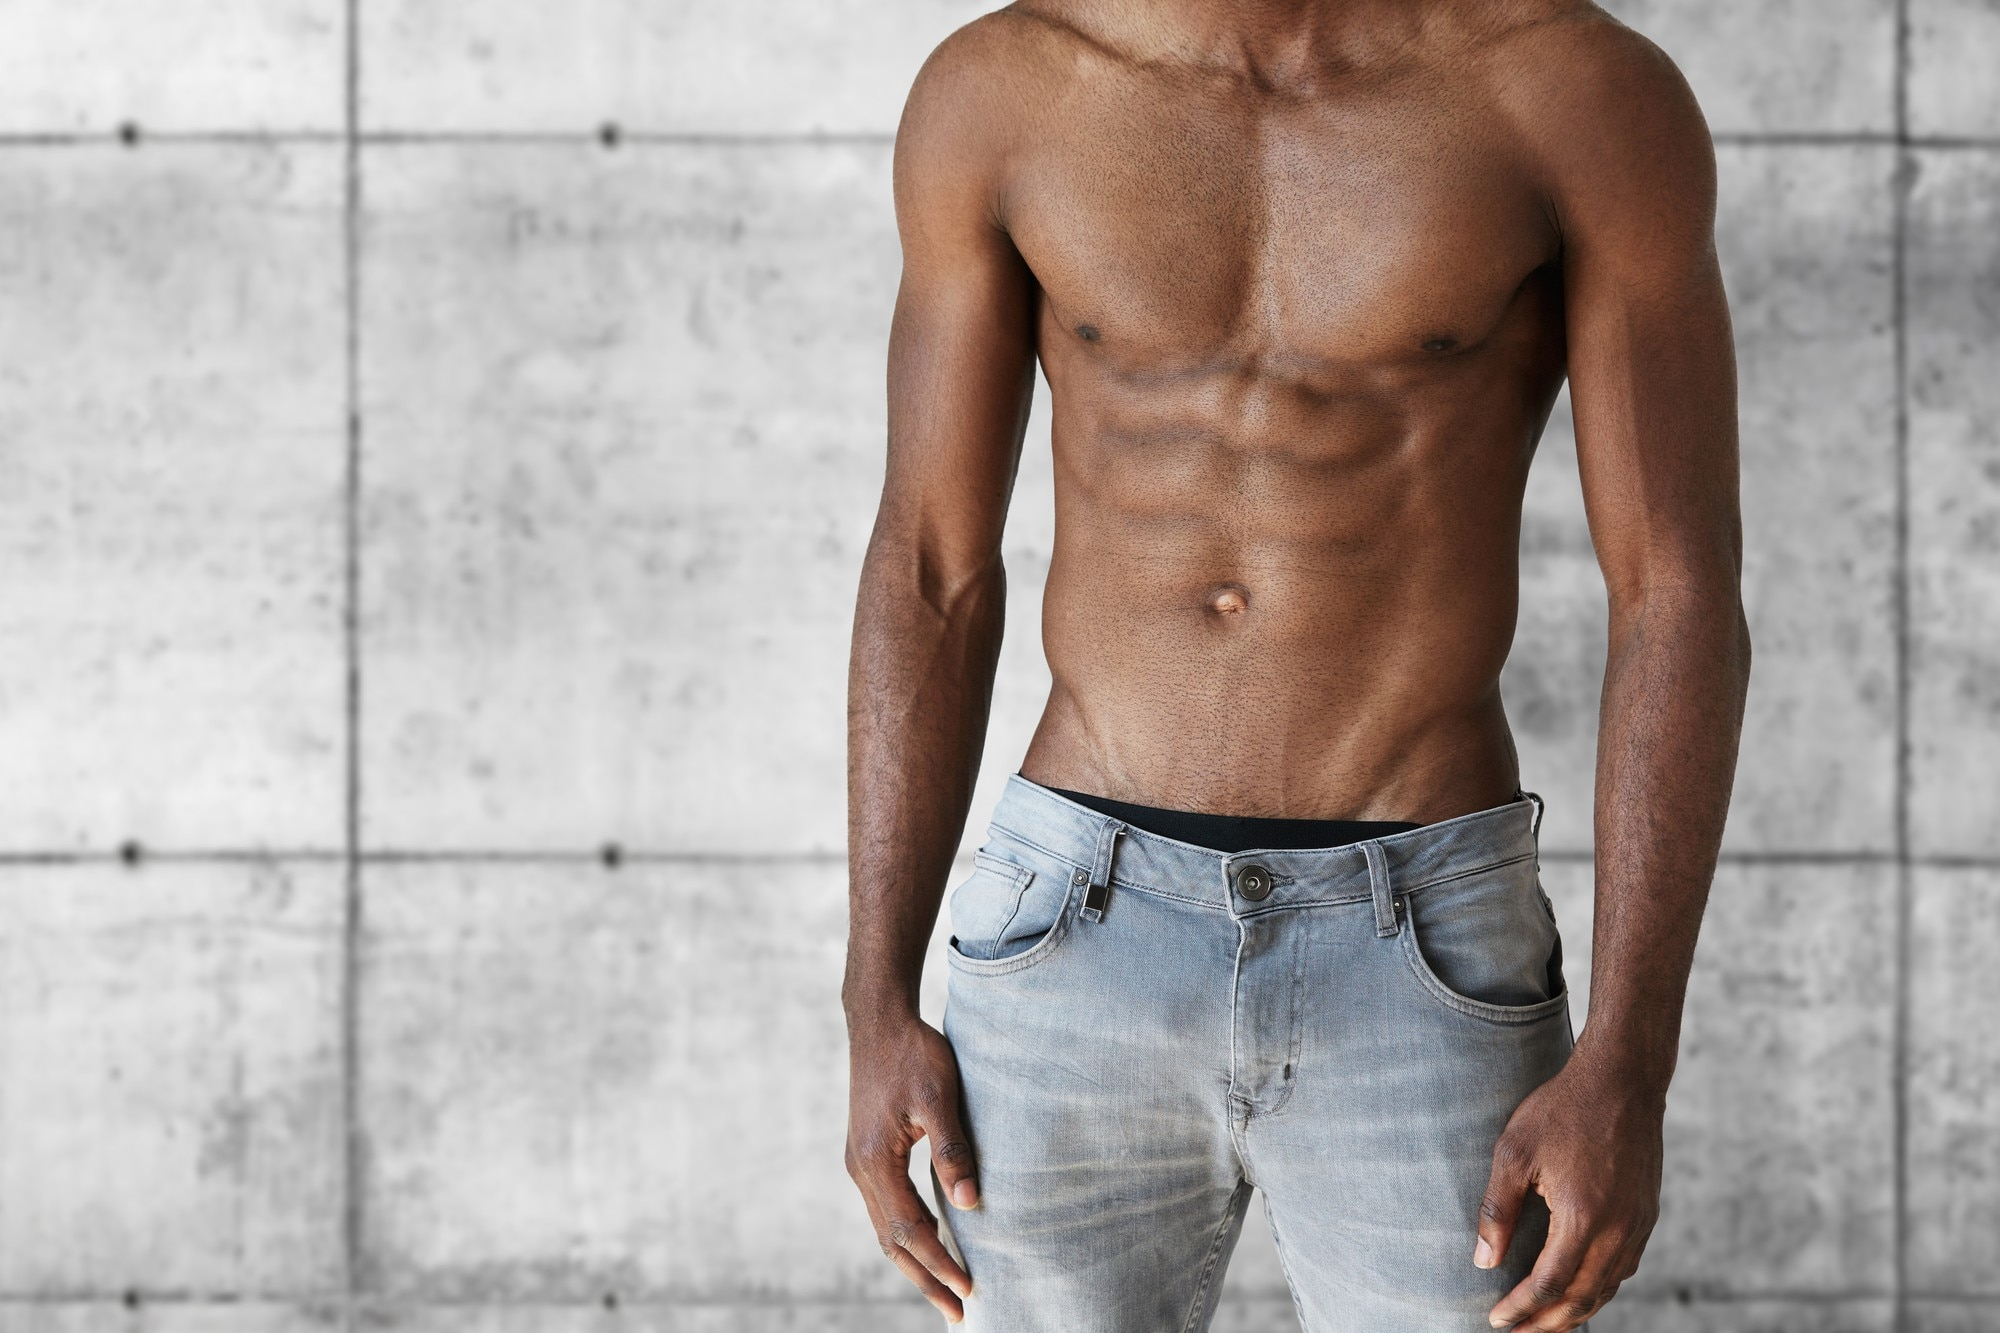
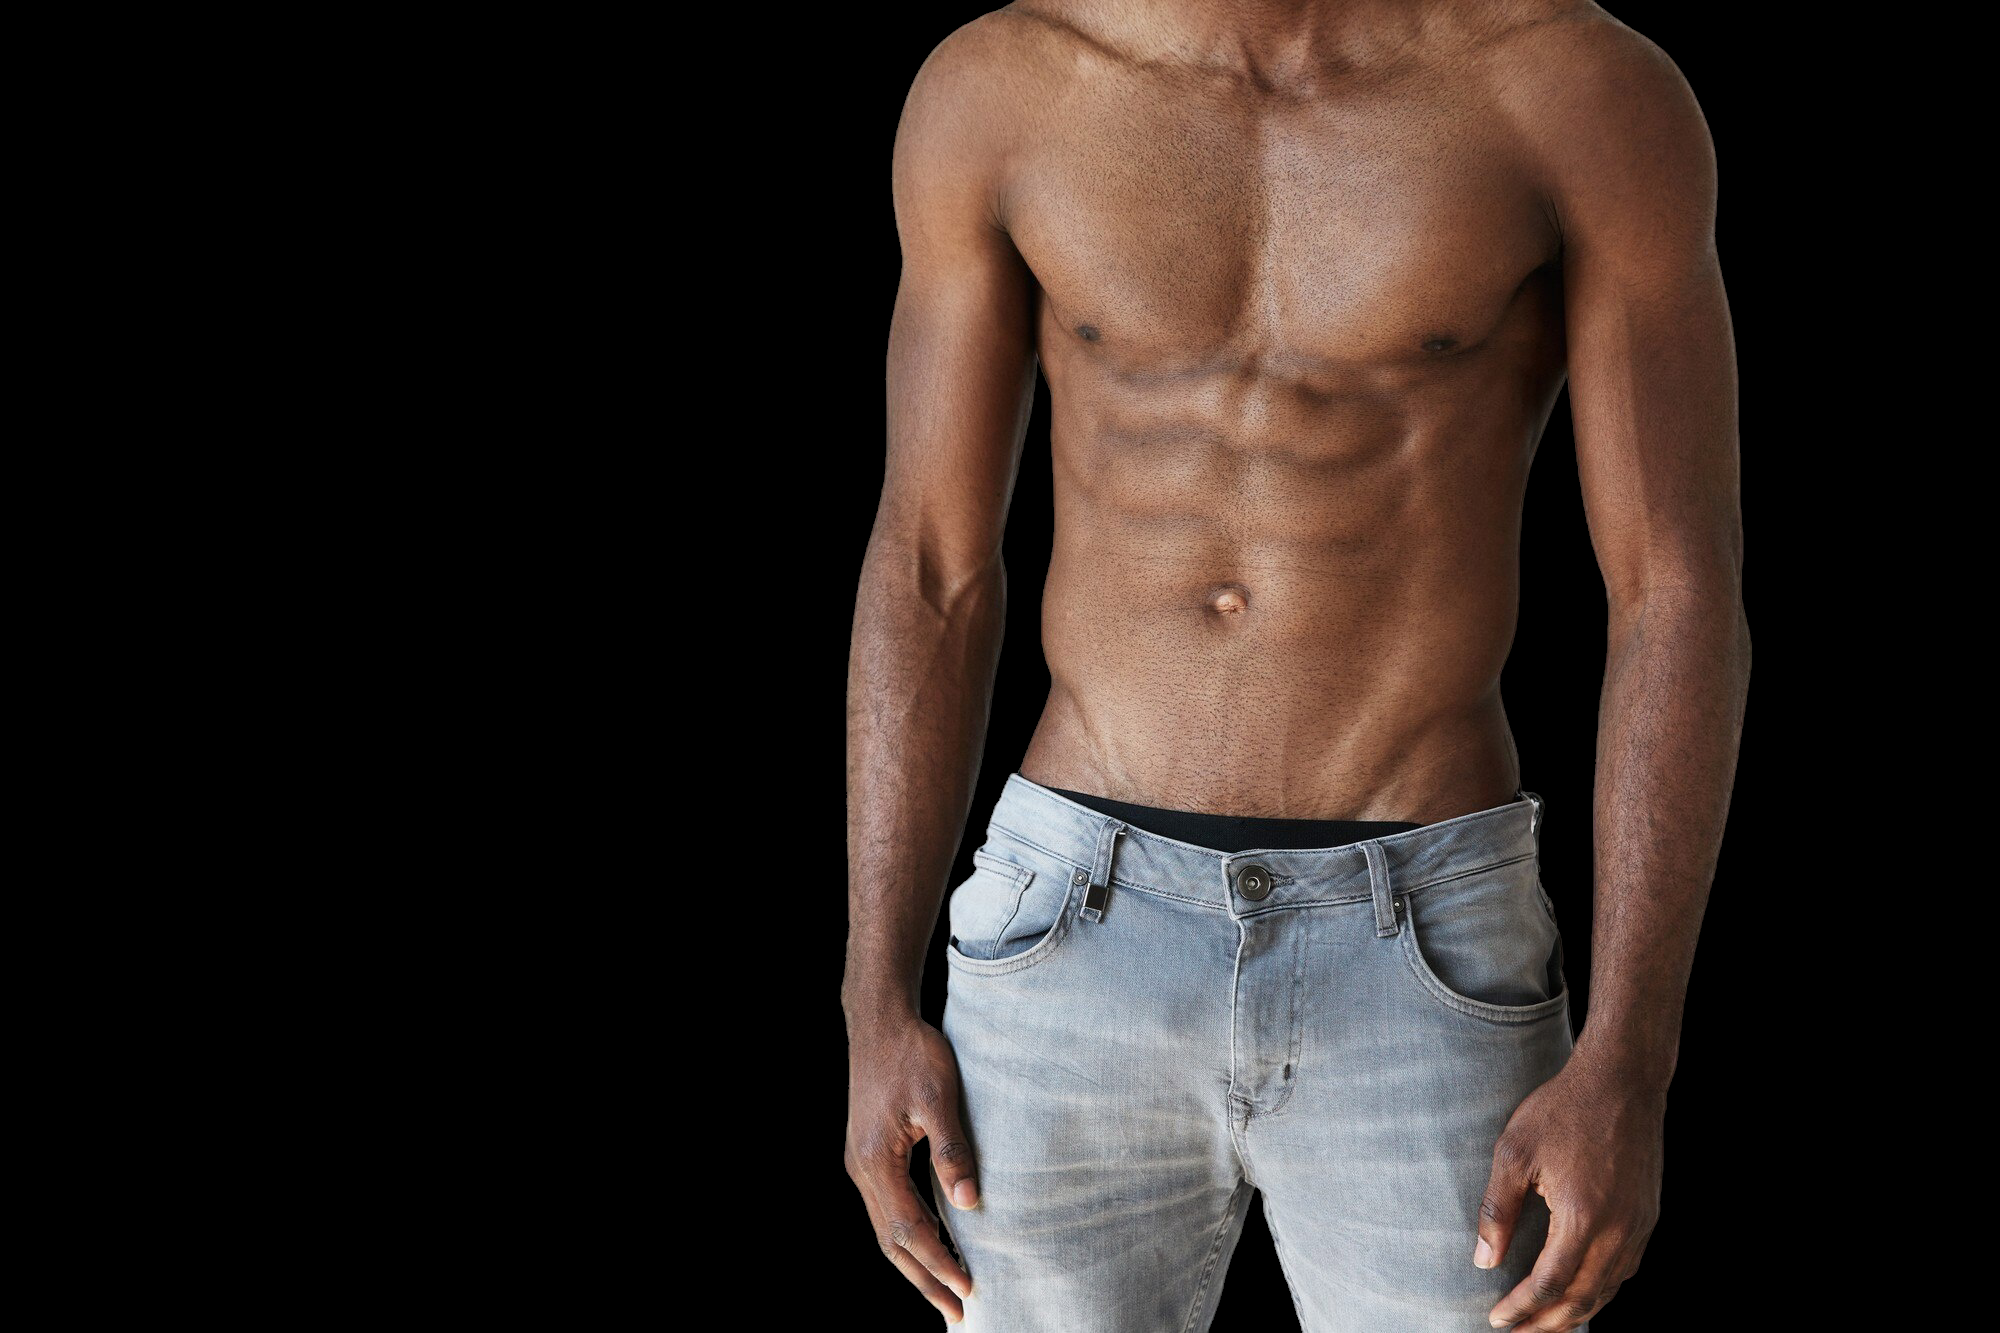
update profile not saving

diff --git a/app/api/profile/fetch/route.js b/app/api/profile/fetch/route.js
@@ -3,29 +3,31 @@ import { getSession } from '@auth0/nextjs-auth0';
 import { getDatabase } from '../../../../lib/mongodb';
 
 export async function GET(request) {
+  const requestId = Math.random().toString(36).substring(7);
   try {
-    console.log('🔄 Profile Fetch API: Starting profile fetch...');
+    console.log(`🔄 [${requestId}] Profile Fetch API: Starting profile fetch...`);
+    console.log(`📍 [${requestId}] Profile Fetch API: Request timestamp:`, new Date().toISOString());
     
     // Get the user session
-    const session = await getSession(request);
+    const session = await getSession();
     if (!session || !session.user) {
-      console.log('❌ Profile Fetch API: No user session found');
+      console.log(`❌ [${requestId}] Profile Fetch API: No user session found`);
       return NextResponse.json({ error: 'Unauthorized' }, { status: 401 });
     }
 
     const userId = session.user.sub;
-    console.log('👤 Profile Fetch API: User ID:', userId);
+    console.log(`👤 [${requestId}] Profile Fetch API: User ID:`, userId);
 
     // Connect to MongoDB
     const db = await getDatabase();
-    console.log('🔗 Profile Fetch API: Connected to MongoDB');
+    console.log(`🔗 [${requestId}] Profile Fetch API: Connected to MongoDB`);
 
     // Find the profile for this user
     const profile = await db.collection('profiles').findOne({ userId: userId });
-    console.log('🔍 Profile Fetch API: Profile found:', !!profile);
+    console.log(`🔍 [${requestId}] Profile Fetch API: Profile found:`, !!profile);
 
     if (!profile) {
-      console.log('📝 Profile Fetch API: No profile found for user');
+      console.log(`📝 [${requestId}] Profile Fetch API: No profile found for user`);
       return NextResponse.json({
         success: true,
         message: 'No profile found',
@@ -34,15 +36,13 @@ export async function GET(request) {
       });
     }
 
-    console.log('✅ Profile Fetch API: Profile fetched successfully', {
+    console.log(`✅ [${requestId}] Profile Fetch API: Profile fetched successfully`, {
       userId: profile.userId,
       name: profile.name,
       email: profile.userEmail,
       hasUserMetadata: !!profile.user_metadata,
       consultationOccurred: profile.user_metadata?.consultationOccurred,
     });
-    
-    console.log('📋 Profile Fetch API: Full profile data:', JSON.stringify(profile, null, 2));
 
     return NextResponse.json({
       success: true,
@@ -52,7 +52,7 @@ export async function GET(request) {
     });
 
   } catch (error) {
-    console.error('❌ Profile Fetch API: Error fetching profile:', error);
+    console.error(`❌ [${requestId}] Profile Fetch API: Error fetching profile:`, error);
     return NextResponse.json(
       { 
         error: 'Failed to fetch profile',

diff --git a/app/profile/page.js b/app/profile/page.js
@@ -2,7 +2,7 @@
 
 import { useUser } from '@auth0/nextjs-auth0/client';
 import { useBasicAccess } from '../../hooks/useAccessControl';
-import { useState, useEffect } from 'react';
+import { useState, useEffect, useRef } from 'react';
 import Header from '../../components/Header';
 import Link from 'next/link';
 import { useRouter } from 'next/navigation';
@@ -63,6 +63,7 @@ export default function Profile() {
   const [activeStep, setActiveStep] = useState(0);
   const dispatch = useAppDispatch();
   const router = useRouter();
+  const hasFetchedProfile = useRef(false);
   
   // Access control - only Admin and Patient can access
   useBasicAccess();
@@ -107,20 +108,29 @@ export default function Profile() {
 
   useEffect(() => {
     setMounted(true);
-    
-    // Reset the isSaved flag when component mounts to prevent unwanted redirects
+  }, []);
+
+  // Separate effect for fetching profile - only run once when mounted and user is available
+  useEffect(() => {
+    if (mounted && user && !isLoading && !hasFetchedProfile.current) {
+      console.log('📊 Profile: Loading profile data (first time only)...');
+      console.log('👤 Profile: User object:', user);
+      
+      // Mark as fetched BEFORE dispatching to prevent race conditions
+      hasFetchedProfile.current = true;
+      
+      // Fetch profile data
+      dispatch(fetchProfile());
+    }
+  }, [mounted, user, isLoading, dispatch]);
+
+  // Separate effect to reset isSaved flag on mount
+  useEffect(() => {
     if (profileState.isSaved) {
       console.log('🔄 Profile: Resetting isSaved flag to prevent unwanted redirect');
       dispatch(resetSaveFlag());
     }
-    
-    // Fetch profile data when component mounts
-    console.log('📊 Profile: Loading profile data...');
-    console.log('👤 Profile: User object:', user);
-    console.log('🔐 Profile: Auth0 loading state:', isLoading);
-    console.log('❌ Profile: Auth0 error:', error);
-    dispatch(fetchProfile());
-  }, [dispatch, user, isLoading, error]);
+  }, []); // Run only once on mount
 
   // Handle profile save success/failure
   useEffect(() => {
@@ -260,10 +270,10 @@ export default function Profile() {
 
   // Load profile data from Redux store if it exists
   useEffect(() => {
-    if (profileState.isLoaded && profileState.profile && profileState.profile.exists) {
+    if (profileState.isLoaded && profileState.profile ) {
       console.log('👤 Profile: Loading existing profile data from store:', profileState.profile);
       
-      const profileData = profileState.profile.profile;
+      const profileData = profileState.profile;
       setFormData(prev => ({
         ...prev,
         // Personal Information - Don't override Auth0 data for name and email

diff --git a/app/dashboard/page.js b/app/dashboard/page.js
@@ -121,7 +121,7 @@ export default function Dashboard() {
       console.log('👤 Dashboard: Profile loaded successfully:', profileState.profile);
       
       // If profile exists, mark medical profile task as complete
-      if (profileState.profile && profileState.profile.exists) {
+      if (profileState.profile ) {
         console.log('✅ Dashboard: Profile exists, marking medical profile task as complete');
         dispatch(updatePreAppointmentTask({ 
           taskKey: 'completeMedicalProfile', 
